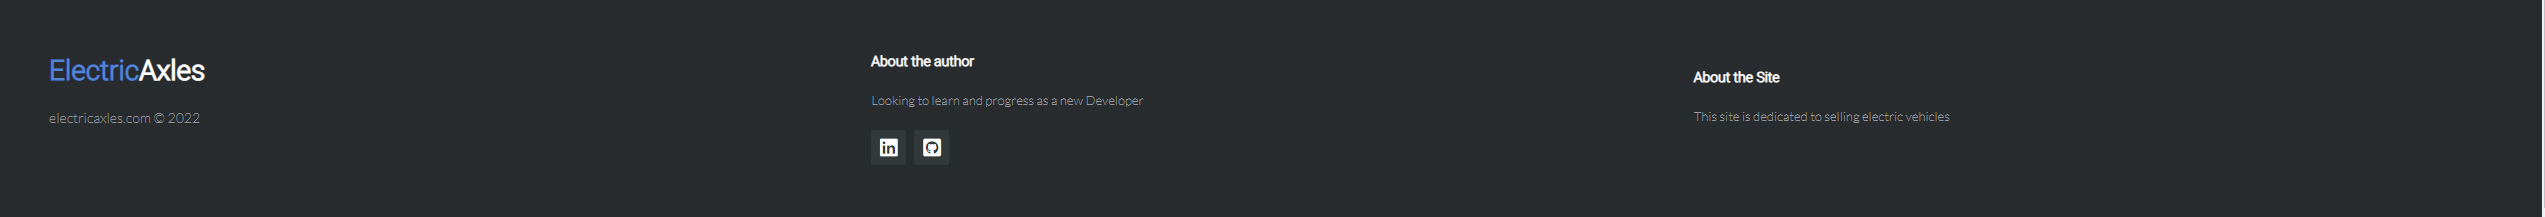
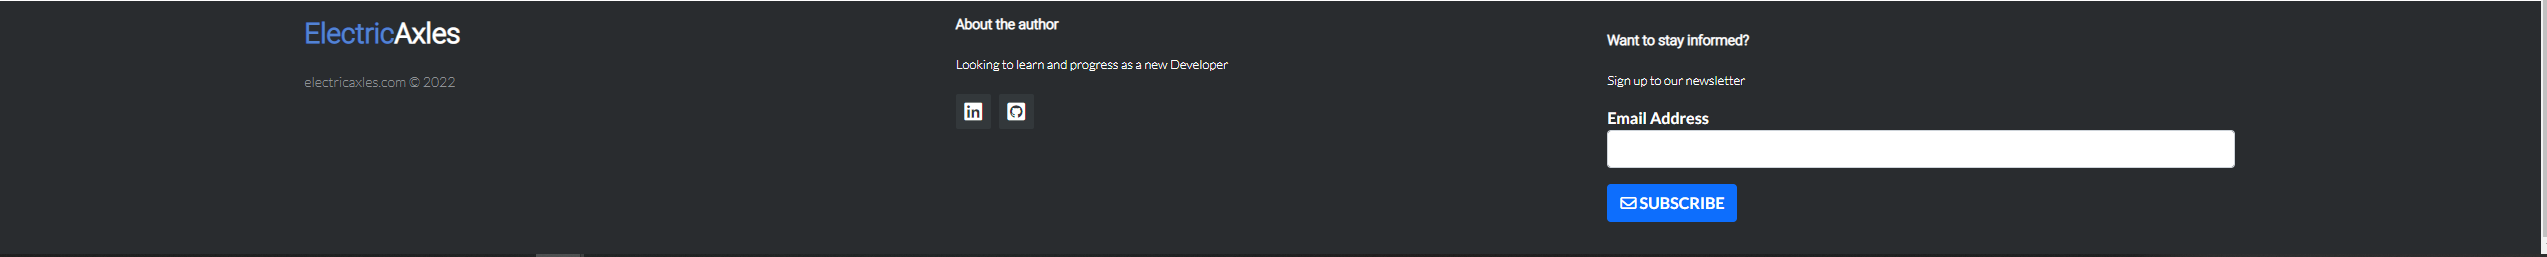
Add mailchimp to capture user email and add them to newsletter list

diff --git a/templates/base.html b/templates/base.html
@@ -161,8 +161,17 @@
                         </div>
                     </div>
                     <div class="col-sm-6 col-md-4 py-3 footer-about">
-                        <h4>About the Site</h4>
-                        <p>This site is dedicated to selling electric vehilces</p>
+                        <h4>Want to stay informed?</h4>
+                        <p>Sign up to our newsletter</p>
+                        <!-- Mailchimp Signup Form -->
+                        <form action="https://gmail.us14.list-manage.com/subscribe/post?u=cc5f3624add345be12a9bd8ae&amp;id=e559f8cb13" method="post" target="_blank">
+                            <div class="form-group">
+                                <label for="mce-EMAIL">Email Address</label>
+                                <input type="email" class="form-control" required="required" name="EMAIL" id="mce-EMAIL">
+                            </div>
+                                <button type="submit" class="fw-bold btn btn-primary text-uppercase mt-3"><i class="fa fa-envelope-o"></i> Subscribe</button>
+                            <div style="position: absolute; left: -5000px;" aria-hidden="true"><input type="text" name="b_cc5f3624add345be12a9bd8ae_e559f8cb13" tabindex="-1" value=""></div>
+                        </form>
                     </div>
                 </div>
             </div>

diff --git a/home/templates/home/index.html b/home/templates/home/index.html
@@ -13,13 +13,13 @@
     <div id="carouselFade" class="carousel slide carousel-fade" data-ride="carousel">
         <div class="carousel-inner">
             <div class="carousel-item active">
-                <img src="/media/mike-marrah-YG1qod-leuQ-unsplash.jpg" class="img-fluid mx-auto d-block" alt="...">
+                <img src="/media/mike-marrah-YG1qod-leuQ-unsplash.jpg" class="img-fluid mx-auto d-block" alt="onewheel xr electric skateboard">
             </div>
             <div class="carousel-item">
-                <img src="/media/varla-scooter-3UucGH8UqOY-unsplash.jpg" class="img-fluid mx-auto d-block" alt="...">
+                <img src="/media/varla-scooter-3UucGH8UqOY-unsplash.jpg" class="img-fluid mx-auto d-block" alt="varla red scooter">
             </div>
             <div class="carousel-item">
-                <img src="/media/geo-chierchia-qZ1KmFjfQq8-unsplash.jpg" class="img-fluid mx-auto d-block" alt="...">
+                <img src="/media/geo-chierchia-qZ1KmFjfQq8-unsplash.jpg" class="img-fluid mx-auto d-block" alt="back electric bike">
             </div>
         </div>
         <a class="carousel-control-prev" href="#carouselFade" role="button" data-slide="prev">

diff --git a/static/css/base.css b/static/css/base.css
@@ -327,10 +327,8 @@ span.new-line-span {
 
 .footer-about p {
   line-height: 20px;
-  color: #92999f;
   font-size: 13px;
   font-weight: normal;
-  margin: 0
 }
 
 div.social-links {

diff --git a/README.md b/README.md
@@ -204,7 +204,9 @@ SQLite was used during the development of the site and then moved to Postgres in
     <img src="docs/readme/home-info.png"> 
 
 - Footer 
-    - Here the user can find out more about the developer with links to their social accounts. It also has a short description of the site(add contact us option?)
+    - Here the user can find out more about the developer with links to their social accounts.
+    - There is a form where the user can leave them email to sign up for the sites newsletter.
+    - The user is the informed if they have been successfully signed up to the newsletter.
 
     <img src="docs/readme/footer.png"> 
 
@@ -314,6 +316,7 @@ SQLite was used during the development of the site and then moved to Postgres in
     -   Have a custom page/message informing guest users to create an account to use the wishlist feature.
     -   Have an add-to-basket functionality from the wishlist page.
     -   Implement a Django package called MPTT which creates dynamic groups, to create a better grouping of products.
+    -   Improve newsletter functionality with mailchimp, have a better success page displaying more information to the user.
 
 
 [Back to Top](#table-of-contents)
@@ -460,6 +463,9 @@ Google Chrome developer tools were used throughout the development process to te
 
 -   Footer
     - Links redirect to the correct social media on a new page.
+    - Mailchimp was used to get the users email and to add them to the sites newsletter.
+    - After subscribing to the newsletter, a pop up infroms the user they have been added to the newsletter list.
+    - This is reflected in mailchimps contacts overview.
 
 -   Products
     - The default all products page displays products by the date they were added.
@@ -560,7 +566,8 @@ Google Chrome developer tools were used throughout the development process to te
 
 -   Users who have items in their basket who then log out lose their items in their basket.
 -   Due to the different sizes of the product images used, in the all products view, the images of the different items don't quite match up.
-
+-   After completing the newsletter form the users email remains in the field, until the user refreshes the page.
+-   Hompage images are too large and user might not know of content below. Images on change moves the whole page.
 
 # Deployment
 
